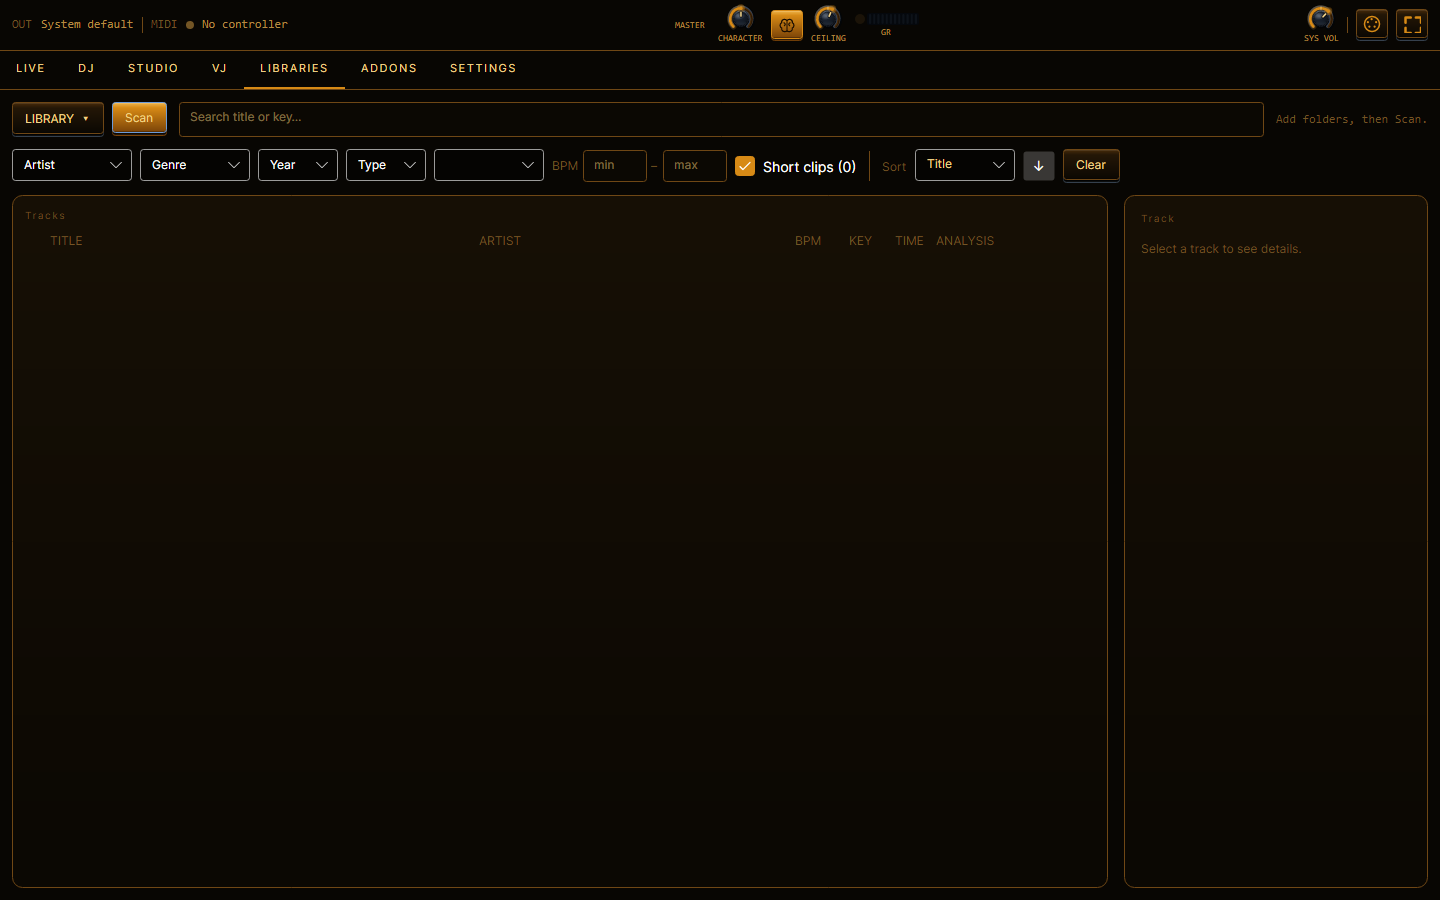
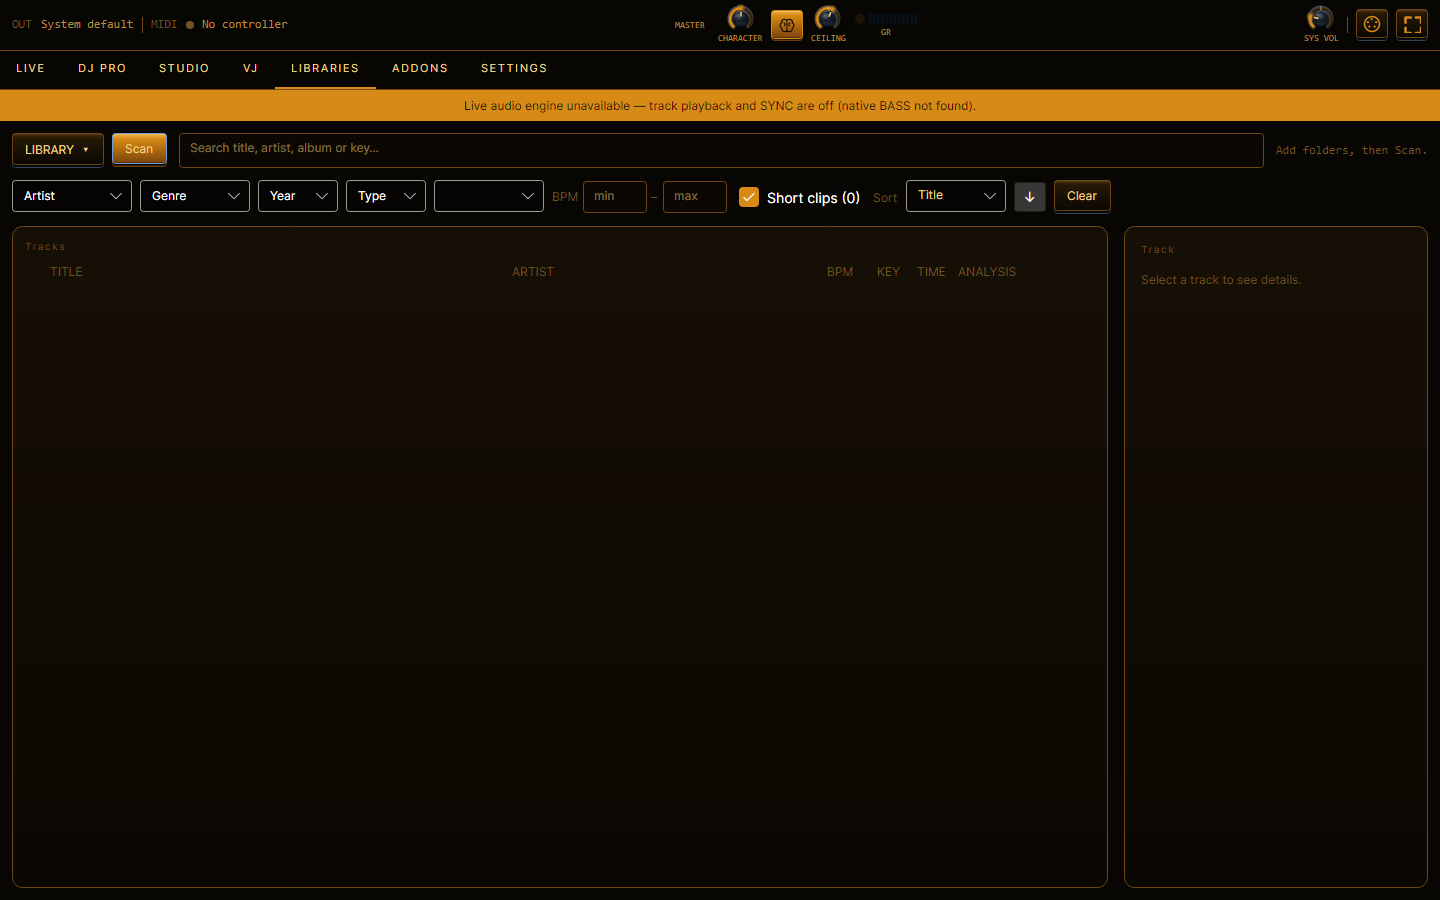
chore(release): 0.6.1
First build that actually contains the SyncImprove work: the published 0.6.0 installer was
compiled before it landed, so the site advertised features its download did not have.
0.6.1 ships DJ PRO, the grid-confidence SYNC gate, DJ library import and the per-stem gain
knobs, and refreshes the changelog, site.ts, version.json and screenshots to match.

diff --git a/website/src/data/site.ts b/website/src/data/site.ts
@@ -20,8 +20,8 @@ export const site = {
   // Windows installer, served from the site's own /downloads (bind-mounted on
   // the VPS — see website/DEPLOY.md). These three are updated automatically by
   // scripts/publish-website-release.ps1 each time an installer is built.
-  version: "0.5.0",
-  downloadUrl: "/downloads/LiveolatorSetup-0.5.0.exe",
+  version: "0.6.1",
+  downloadUrl: "/downloads/LiveolatorSetup-0.6.1.exe",
   downloadSize: "38 MB",
   // Cache-buster for the screenshots specifically. Bump this when the images are
   // re-rendered WITHOUT a version bump, so Cloudflare's edge (which keys on the query)
